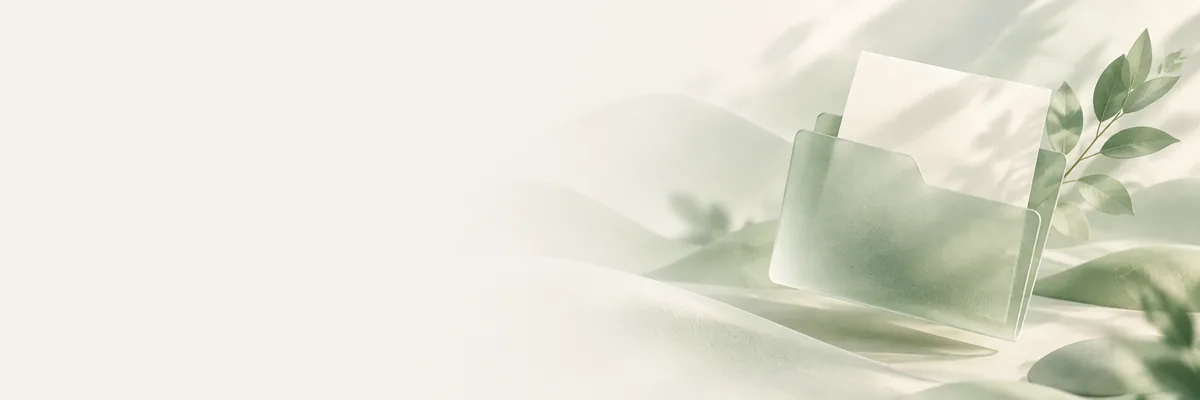
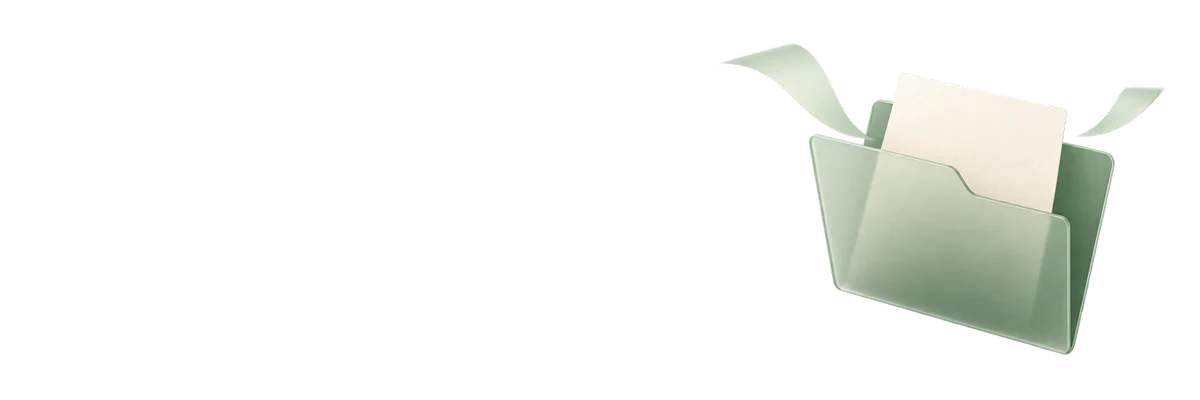
Blend work header illustration into page

diff --git a/src/OverviewPanels.tsx b/src/OverviewPanels.tsx
@@ -56,7 +56,7 @@ const styles = StyleSheet.create({
     fontWeight: "600",
   },
   workIntro: { minHeight: 125, justifyContent: "center", gap: 4 },
-  workArtwork: { position: "absolute", left: -22, right: -22, top: -10, height: 145, opacity: 0.88 },
+  workArtwork: { position: "absolute", left: -22, top: -10, width: "112%", height: 145, opacity: 0.88 },
   workTitle: { color: colors.ink, fontSize: 36, lineHeight: 45, fontWeight: "700" },
   workCard: {
     backgroundColor: "#FFFFFF", borderRadius: 23, padding: 17, gap: 11,
